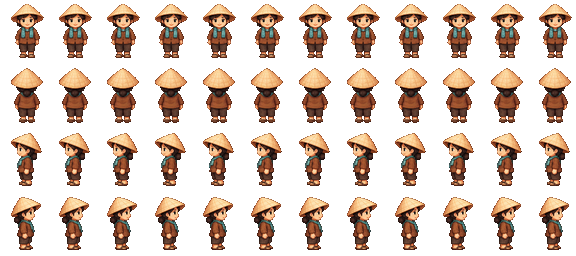
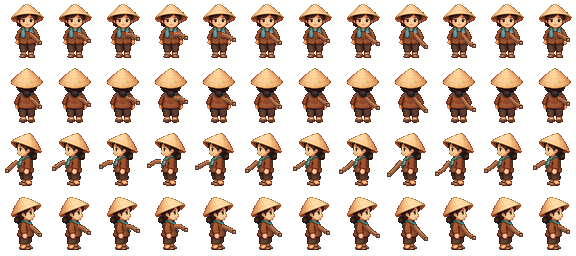
Revert "add them hanh dong cho tưới cây, thu vạt nuôi level 4"
This reverts commit 2321ecb2894957792bc805e63eb2f05805930f30.

diff --git a/scripts/generate-farm-action-character-atlases.py b/scripts/generate-farm-action-character-atlases.py
@@ -1,7 +1,7 @@
-"""Build safe action atlases from approved sprites without painting duplicate limbs."""
+"""Build six-frame watering and harvest pose atlases from approved farmer sprites."""
 from pathlib import Path
 
-from PIL import Image
+from PIL import Image, ImageDraw
 
 ROOT = Path(__file__).resolve().parents[1]
 CELL = (48, 64)
@@ -18,6 +18,20 @@ SOURCES = {
 SOURCE_OUTPUT = ROOT / "docs/assets/farmer-action-poses-v1-source"
 RUNTIME_OUTPUT = ROOT / "public/pixel/farmer-action-poses-v1"
 
+PALETTES = {
+    "female": {
+        "ink": "#5b392e", "shade": "#754833", "mid": "#995a39",
+        "cloth": "#aa6742", "light": "#c68453", "skin_ink": "#aa704d",
+        "skin": "#e4ad7a", "skin_light": "#f3cc96",
+    },
+    "male": {
+        "ink": "#263b38", "shade": "#31534b", "mid": "#456a5d",
+        "cloth": "#557969", "light": "#78927a", "skin_ink": "#a97655",
+        "skin": "#e1ab7a", "skin_light": "#f1ca95",
+    },
+}
+
+
 def load_bases(avatar):
     sheet = Image.open(SOURCES[avatar]).convert("RGBA")
     bases = []
@@ -30,14 +44,56 @@ def load_bases(avatar):
     return bases
 
 
+def frame_arm(action, index):
+    if action == "water":
+        elbow = ((34, 37), (35, 36), (36, 35), (36, 34), (35, 36), (34, 38))[index]
+        hand = ((40, 43), (41, 41), (42, 39), (42, 38), (42, 40), (40, 43))[index]
+    else:
+        elbow = ((34, 37), (35, 39), (37, 42), (36, 42), (35, 39), (34, 36))[index]
+        hand = ((40, 41), (42, 44), (42, 47), (42, 46), (41, 43), (40, 40))[index]
+    # The same reachable hand path is mirrored for the left-facing profile.
+    return [(30, 34), elbow, hand]
+
+
+def draw_arm(layer, points, palette):
+    scale = SOURCE_SCALE
+    p = palette
+    points = [(x * scale, y * scale) for x, y in points]
+    draw = ImageDraw.Draw(layer)
+    # A stepped outline, sleeve shade, warm cloth ramp, and a single light seam.
+    draw.line(points, fill=p["ink"], width=5 * scale, joint="curve")
+    draw.line(points, fill=p["shade"], width=4 * scale, joint="curve")
+    draw.line(points, fill=p["mid"], width=3 * scale, joint="curve")
+    draw.line([(x, y - scale) for x, y in points], fill=p["cloth"], width=2 * scale, joint="curve")
+    draw.line([(x, y - scale) for x, y in points], fill=p["light"], width=scale, joint="curve")
+
+    hx, hy = points[-1]
+    # Cuff overlaps the palm so the hand reads as gripping the tool or basket rim.
+    draw.rectangle((hx - 2 * scale, hy - 2 * scale, hx + 2 * scale, hy + 2 * scale), fill=p["ink"])
+    draw.rectangle((hx - scale, hy - scale, hx + scale, hy + scale), fill=p["skin_ink"])
+    draw.rectangle((hx, hy - scale, hx + scale, hy), fill=p["skin"])
+    draw.point((hx, hy - scale), fill=p["skin_light"])
+    # A short cuff glint keeps the sleeve distinct from the skin at runtime size.
+    draw.line([(hx - 2 * scale, hy - 3 * scale), (hx + scale, hy - 2 * scale)], fill=p["light"], width=scale)
+
+
 def build_avatar(avatar):
     source_atlas = Image.new("RGBA", (ATLAS_COLUMNS * CELL[0] * SOURCE_SCALE,
                                        DIRECTIONS * CELL[1] * SOURCE_SCALE))
     bases = load_bases(avatar)
     for direction, base in enumerate(bases):
-        for col in range(ATLAS_COLUMNS):
-            source_atlas.alpha_composite(base, (col * CELL[0] * SOURCE_SCALE,
-                                                 direction * CELL[1] * SOURCE_SCALE))
+        for action_index, action in enumerate(("water", "harvest")):
+            for frame in range(FRAMES_PER_ACTION):
+                layer = Image.new("RGBA", base.size)
+                points = frame_arm(action, frame)
+                if direction == 2:
+                    points = [(CELL[0] - 1 - x, y) for x, y in points]
+                draw_arm(layer, points, PALETTES[avatar])
+                pose = base.copy()
+                pose.alpha_composite(layer)
+                col = action_index * FRAMES_PER_ACTION + frame
+                source_atlas.alpha_composite(pose, (col * CELL[0] * SOURCE_SCALE,
+                                                     direction * CELL[1] * SOURCE_SCALE))
 
     source_atlas.save(SOURCE_OUTPUT.with_name(SOURCE_OUTPUT.name + f"-{avatar}.png"), optimize=True)
     runtime = source_atlas.resize((ATLAS_COLUMNS * CELL[0] * RUNTIME_SCALE,
